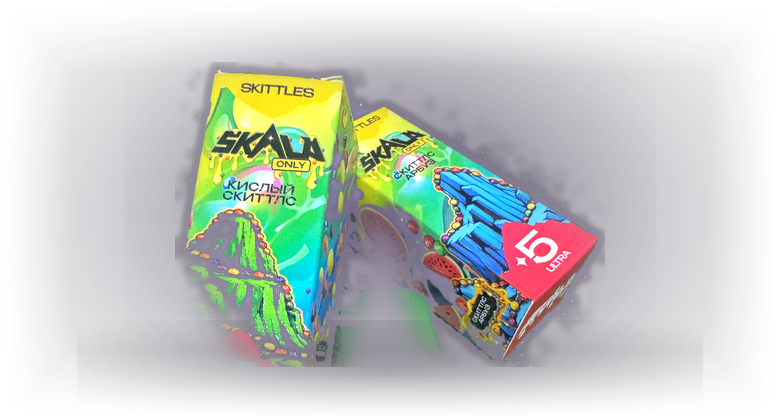
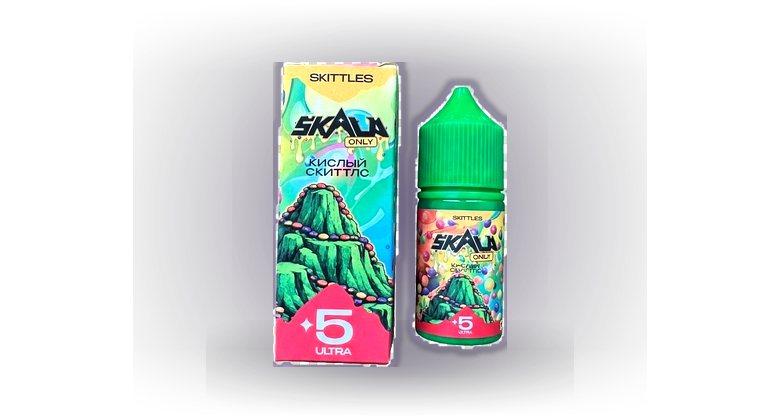
Skala (Only skittles): карточка из нового фото (фон убран); кэш 20261013b

diff --git a/index.html b/index.html
@@ -5,7 +5,7 @@
 <meta name="viewport" content="width=device-width, initial-scale=1, maximum-scale=1, user-scalable=no">
 <title>VapeOasis — мини-приложение</title>
 <script src="https://telegram.org/js/telegram-web-app.js"></script>
-<link rel="stylesheet" href="style.css?v=20261013a">
+<link rel="stylesheet" href="style.css?v=20261013b">
 </head>
 <body>
 <div id="fx"></div>
@@ -82,7 +82,7 @@
 
 <div class="sheet" id="sheet"><div class="in" id="sheetIn"></div></div>
 
-<script src="products.js?v=20261013a"></script>
-<script src="app.js?v=20261013a"></script>
+<script src="products.js?v=20261013b"></script>
+<script src="app.js?v=20261013b"></script>
 </body>
 </html>

diff --git a/app.js b/app.js
@@ -20,7 +20,7 @@ let discountPick = localStorage.getItem("vo_disc") || null; // жижа, на к
 
 const $ = s=>document.querySelector(s);
 const money = n=>n+"₽";
-const IMG_VER = "20261013a";
+const IMG_VER = "20261013b";
 const imgv = u => u ? (u.indexOf("?")>=0 ? u : u+"?v="+IMG_VER) : u;
 const byId = id=>PRODUCTS.find(p=>p.id===id);
 const catEmoji = c=>({liquids:"🧪",pods:"🔌",disposable:"💨",cartridges:"♻",snus:"📦"}[c]||"•");
